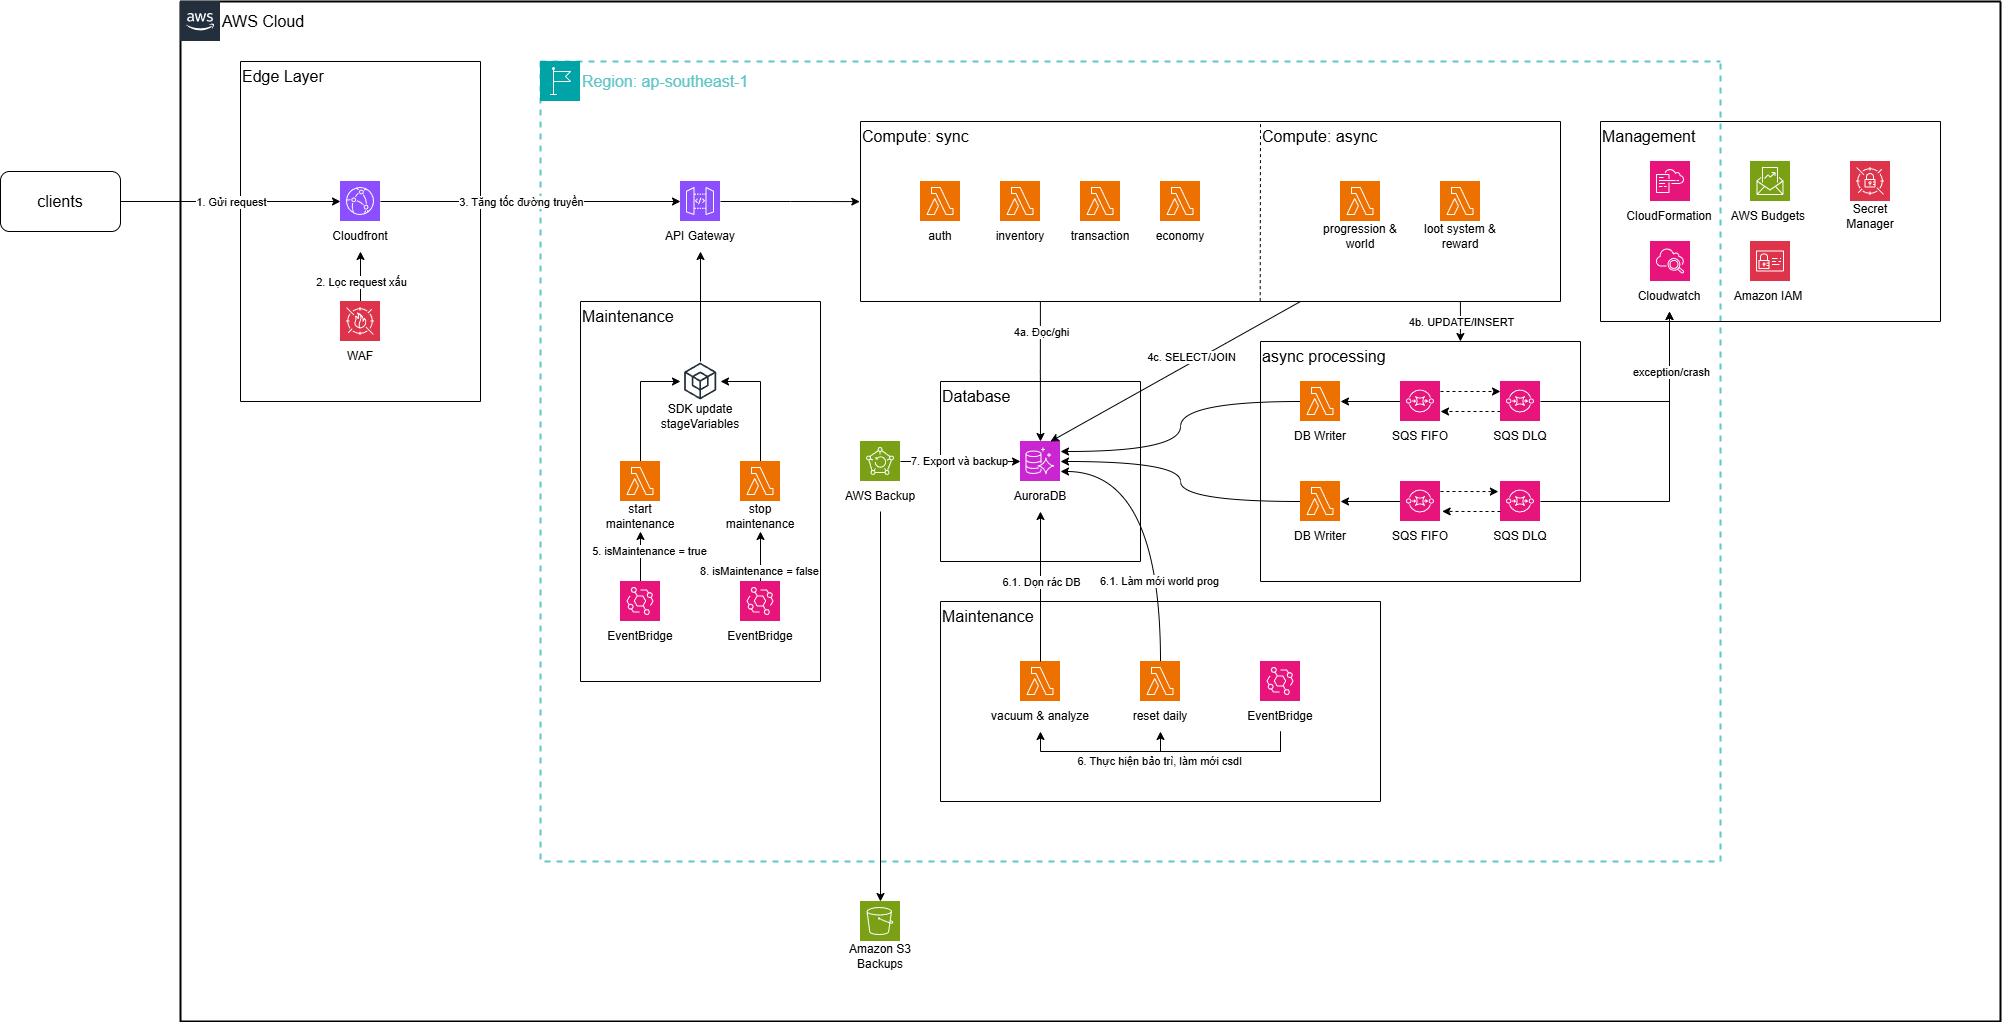
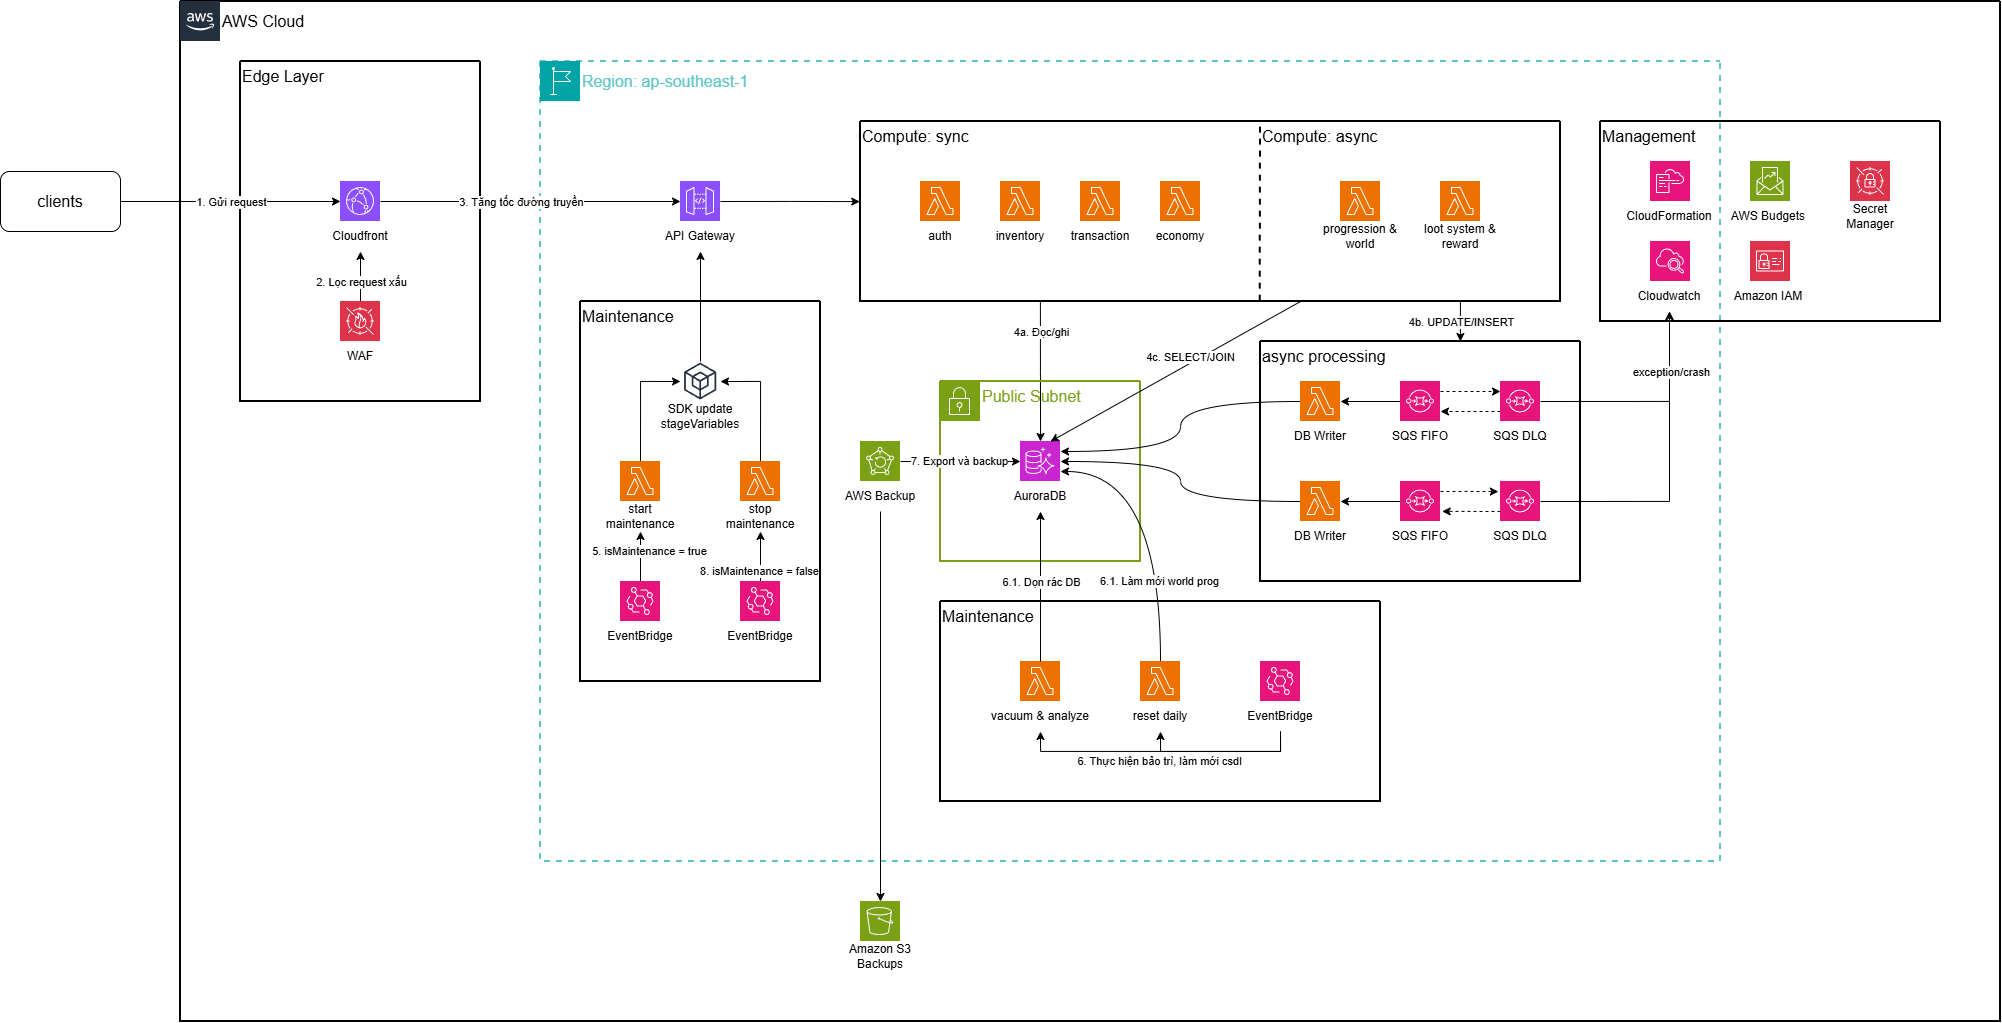
Update Workshop

diff --git a/content/5-Workshop/5.2-management/_index.vi.md b/content/5-Workshop/5.2-management/_index.vi.md
@@ -160,22 +160,20 @@ Giả định Lượng tải và Thông số Hệ thống
 * Amazon SQS: ~2,000,000 requests cần xử lý bất đồng bộ, phát sinh tổng cộng 6,000,000 tác vụ SQS. Tỷ lệ lỗi đẩy vào hàng đợi DLQ ước tính <0.1%.
 * Amazon S3: ~10 GB.
 * Amazon CloudWatch Logs: ~10 GB nạp và lưu trữ log/tháng.
-* Amazon Aurora PostgreSQL & RDS Proxy: trung bình ở chạy mức 2 ACU 24/7.
+* Amazon Aurora PostgreSQL: trung bình ở chạy mức 2 ACU 24/7.
 
-| Service Name                           |           Monthly Cost (USD)           | Annual Cost (USD) |
-| :------------------------------------- | :-------------------------------------: | :---------------: |
-| Amazon Aurora PostgreSQL-Compatible DB |                  74.68                  |      896.16      |
-| Amazon RDS Proxy                       |                  26.28                  |      315.36      |
-| AWS Web Application Firewall (WAF)     |                  11.00                  |      132.00      |
-| Amazon CloudFront                      |                  10.25                  |      123.00      |
-| Amazon CloudWatch                      |                  7.05                  |       84.54       |
-| Amazon API Gateway                     |                  6.25                  |       75.00       |
-| AWS Lambda                             |                  4.33                  |       51.96       |
-| Amazon Simple Queue Service (SQS)      |                  3.00                  |       36.00       |
-| Amazon Route 53                        |                  0.90                  |       10.80       |
-| S3 Standard                            |                  0.51                  |       6.12       |
-| Data Transfer                          |                  0.00                  |       0.00       |
-| **Total**                        | **$134.30** | **$1,611.58** |                  |
+| Service Name                           | Monthly Cost (USD) | Annual Cost (USD) |
+| :------------------------------------- | :----------------: | :---------------: |
+| Amazon Aurora PostgreSQL-Compatible DB |       74.68       |      896.16      |
+| AWS Web Application Firewall (WAF)     |       11.00       |      132.00      |
+| Amazon CloudFront                      |       10.25       |      123.00      |
+| Amazon CloudWatch                      |        7.05        |       84.54       |
+| Amazon API Gateway                     |        6.25        |       75.00       |
+| AWS Lambda                             |        4.33        |       51.96       |
+| Amazon Simple Queue Service (SQS)      |        3.00        |       36.00       |
+| S3 Standard                            |        0.51        |       6.12       |
+| Data Transfer                          |        0.00        |       0.00       |
+| **Total**                        | **$117.07** |  **$1,404.78**  |
 
 ![Cost_Calculator](images/Cost_Calculator_1.png)
 

diff --git a/content/5-Workshop/5.8-eventbridge/_index.vi.md b/content/5-Workshop/5.8-eventbridge/_index.vi.md
@@ -106,21 +106,22 @@ export const handler = async (event: EventBridgeEvent<'Scheduled Event', Mainten
 
 Với action `start_maintenance`:
 
-**Bật Maintenance Mode** — gọi API Gateway `UpdateStageCommand` set `maintenance=true`
-
-**Ghi flag DB** — upsert `SystemConfig.maintenance_mode = true`
-
-**Ghi CloudWatch Logs** — mỗi bước đều có log
+- **Bật Maintenance Mode** — gọi API Gateway `UpdateStageCommand` set `maintenance=true`
+- **Ghi flag DB** — upsert `SystemConfig.maintenance_mode = true`
+- **Ghi CloudWatch Logs** — mỗi bước đều có log
 
 Với action `vacuum_analyze`:
 
-**Kết nối Aurora PostgreSQL** — qua `ApplicationDbContext`
+**Tổng quan về VACUUM và ANALYZE:**
+- **VACUUM:** Do PostgreSQL sử dụng cơ chế kiểm soát đồng thời nhiều phiên bản (MVCC - Multi-Version Concurrency Control), khi các tác vụ `UPDATE` hoặc `DELETE` diễn ra, hệ thống không xóa vật lý các dữ liệu cũ ngay lập tức mà chỉ đánh dấu chúng là "dead tuples". Theo thời gian, điều này gây ra hiện tượng phình to dữ liệu (table bloat). Lệnh `VACUUM` được gọi để quét và thu hồi không gian lưu trữ từ các dead tuples này, giúp giải phóng dung lượng và duy trì tốc độ đọc/ghi ổ đĩa.
+- **ANALYZE:** Lệnh này có nhiệm vụ thu thập và cập nhật các số liệu thống kê (statistics) về phân bổ dữ liệu bên trong các bảng. Trình tối ưu hóa truy vấn (Query Planner) của PostgreSQL phụ thuộc hoàn toàn vào số liệu này để tính toán và đưa ra kế hoạch thực thi (execution plan) tối ưu nhất, giúp các truy vấn (queries) luôn giữ được tốc độ phản hồi nhanh, ngay cả khi lượng dữ liệu lớn dần.
+- Bằng cách kết hợp **VACUUM ANALYZE** và **REINDEX** (chống phân mảnh các chỉ mục) chạy tự động vào giờ thấp điểm, cơ sở dữ liệu luôn tự động làm sạch và duy trì hiệu năng ở mức cao nhất mà không cần can thiệp thủ công.
 
-**VACUUM ANALYZE** — từng table
-
-**REINDEX** — từng table
-
-**Ghi CloudWatch Logs** + Metrics
+**Các bước thực thi của Lambda:**
+- **Kết nối Aurora PostgreSQL** — qua `ApplicationDbContext`
+- **VACUUM ANALYZE** — lặp qua từng table
+- **REINDEX** — lặp qua từng table
+- **Ghi CloudWatch Logs** + Metrics
 
 #### 5.8.5 Xử lý Maintenance Mode
 

diff --git a/content/5-Workshop/5.10-verification-and-testing/_index.en.md b/content/5-Workshop/5.10-verification-and-testing/_index.en.md
@@ -6,3 +6,11 @@ chapter: false
 pre: " <b> 5.10. </b> "
 ---
 #### 5.10 Verification and Testing
+
+<div style="position: relative; padding-bottom: 56.25%; height: 0; overflow: hidden; max-width: 100%;">
+  <iframe src="https://www.youtube.com/embed/bxgfVyOcEXw" 
+          style="position: absolute; top: 0; left: 0; width: 100%; height: 100%; border:0;" 
+          allowfullscreen 
+          title="Verification and Testing">
+  </iframe>
+</div>

diff --git a/content/5-Workshop/5.10-verification-and-testing/_index.vi.md b/content/5-Workshop/5.10-verification-and-testing/_index.vi.md
@@ -6,3 +6,11 @@ chapter: false
 pre: " <b> 5.10. </b> "
 ---
 #### 5.10 Kiểm tra kết quả và thực nghiệm
+
+<div style="position: relative; padding-bottom: 56.25%; height: 0; overflow: hidden; max-width: 100%;">
+  <iframe src="https://www.youtube.com/embed/bxgfVyOcEXw" 
+          style="position: absolute; top: 0; left: 0; width: 100%; height: 100%; border:0;" 
+          allowfullscreen 
+          title="Kiểm tra kết quả và thực nghiệm">
+  </iframe>
+</div>

diff --git a/content/5-Workshop/_index.en.md b/content/5-Workshop/_index.en.md
@@ -5,6 +5,9 @@ weight: 5
 chapter: false
 pre: " <b> 5. </b> "
 ---
+
+![1782935499173](image/_index.vi/1782935499173.png)
+
 # Research and Deployment of Server Systems for Online Games
 
 #### Overview
@@ -26,7 +29,7 @@ The system separates data flow and processing into two strategic models dependin
 4. [Project Architecture](5.4-architecture-overview/)
 5. [Amazon API Gateway Setup](5.5-API-Gateway/)
 6. [Amazon SQS FIFO](5.6-sqs-fifo/)
-7. [AWS DLQ &amp; AWS CloudWatch](5.7-sqs-dlq/)
+7. [AWS DLQ & AWS CloudWatch](5.7-sqs-dlq/)
 8. [AWS EventBridge](5.8-eventbridge/)
 9. [AWS Backup](5.9-aws-backup/)
 10. [Verification and Testing](5.10-verification-and-testing/)

diff --git a/content/5-Workshop/5.4-architecture-overview/_index.vi.md b/content/5-Workshop/5.4-architecture-overview/_index.vi.md
@@ -5,7 +5,7 @@ weight : 4
 chapter : false
 pre : " <b> 5.4. </b> "
 ---
-#### 5.4.1 Tổng quan kiú3
+#### 5.4.1 Tổng quan kiến trúc
 
 Kiến trúc hệ thống trước dự án trước khi triển khai:
 

diff --git a/content/5-Workshop/_index.vi.md b/content/5-Workshop/_index.vi.md
@@ -5,7 +5,6 @@ weight: 5
 chapter: false
 pre: " <b> 5. </b> "
 ---
-
 # Nghiên cứu và Triển khai Hệ thống Máy chủ cho Trò chơi Trực tuyến
 
 #### Tổng quan